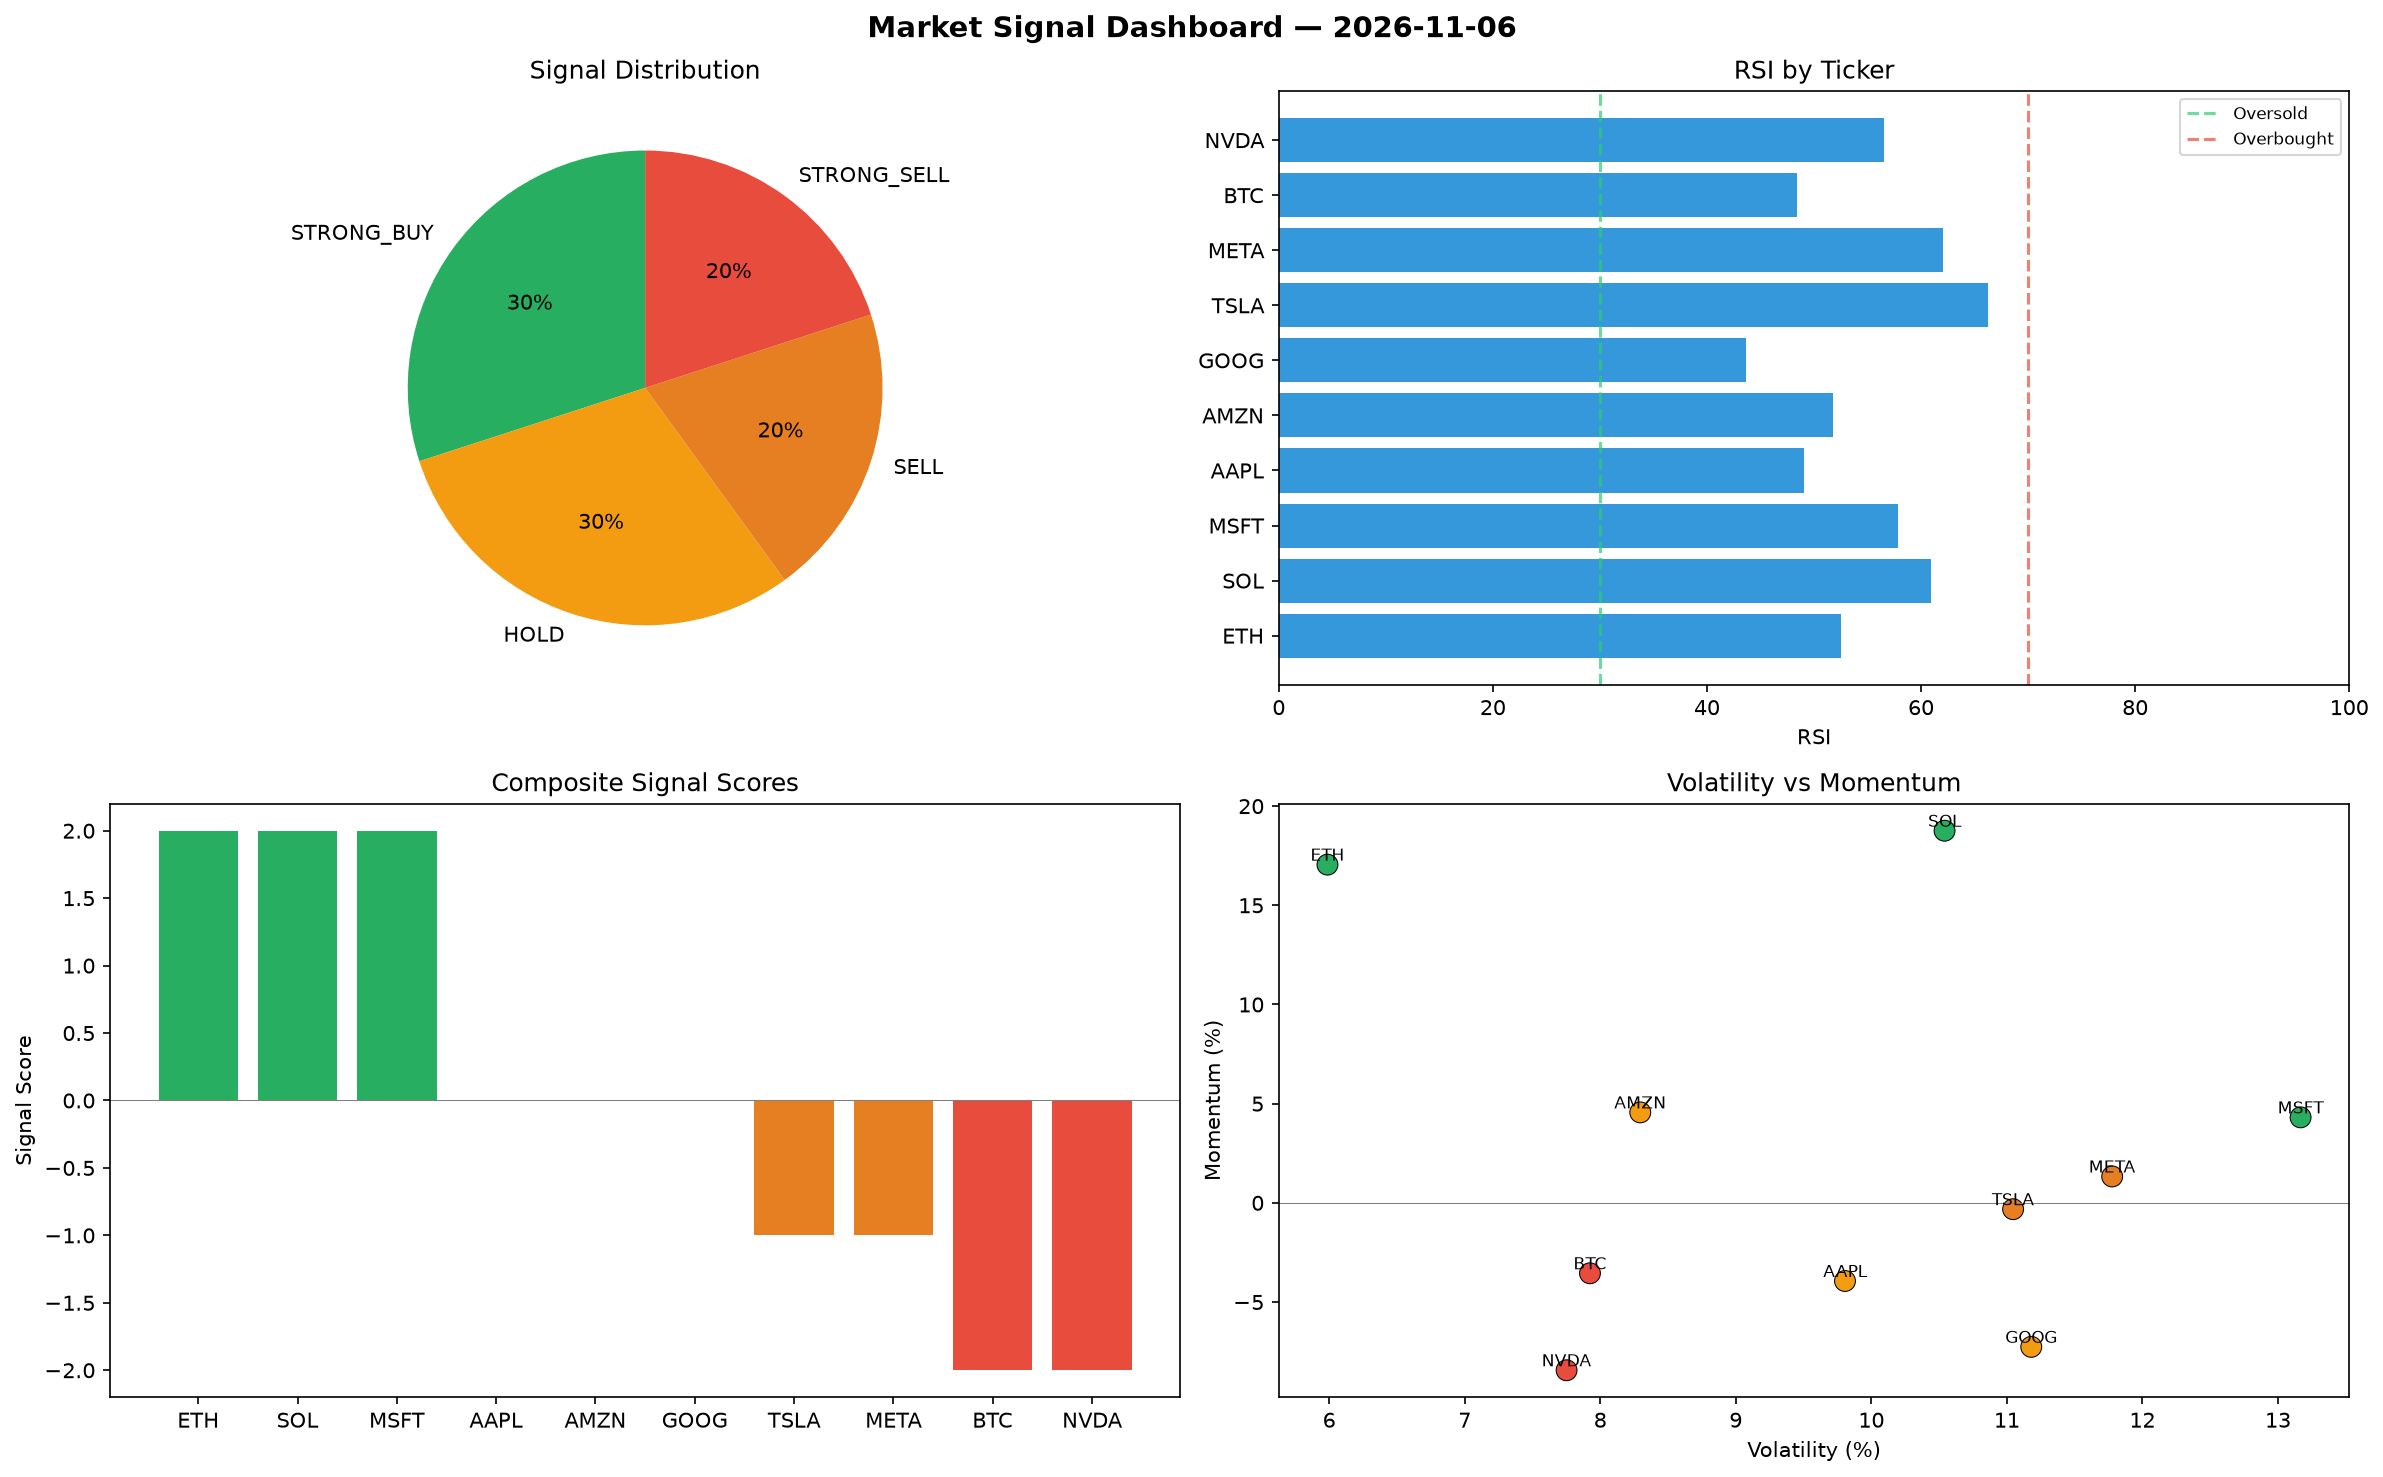
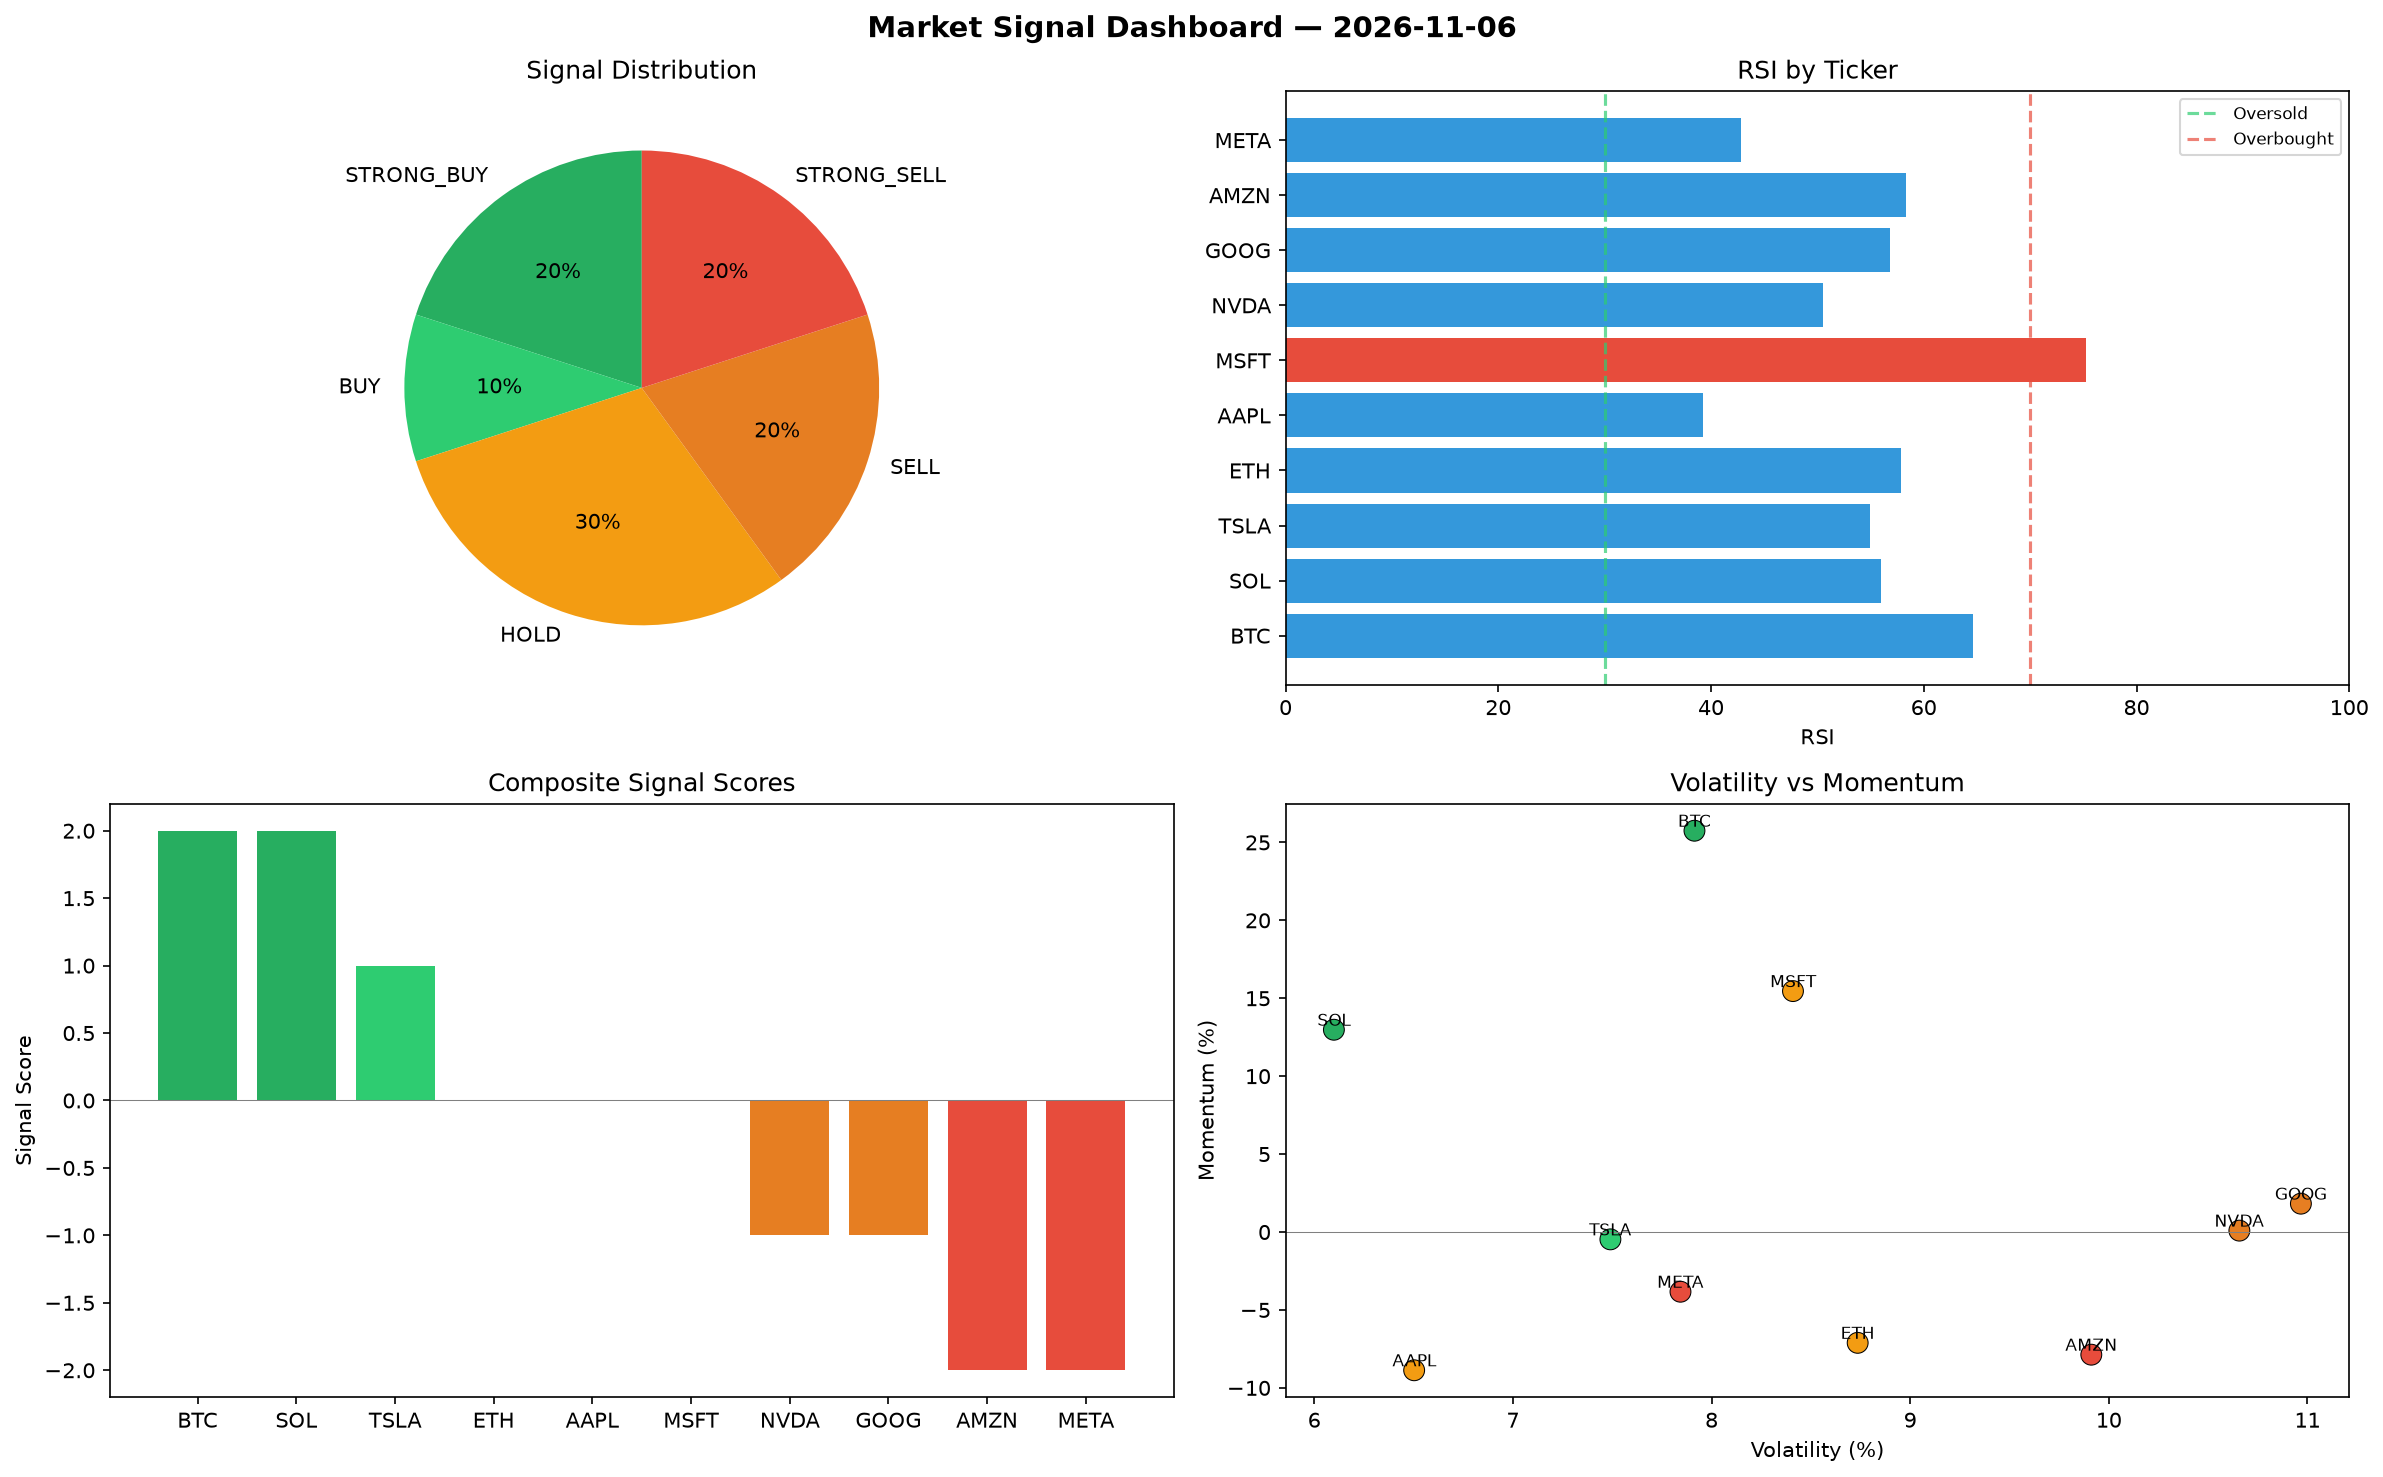
automated-bots: market signals 2026-11-06T09:37

diff --git a/logs/2026-11-06.md b/logs/2026-11-06.md
@@ -1,6 +1,6 @@
 # Market Signal Report — 2026-11-06
 
-**Run ID:** `4459bf4a83` | **Buy:** 3 | **Sell:** 4 | **Hold:** 3
+**Run ID:** `c3e97f5a51` | **Buy:** 3 | **Sell:** 4 | **Hold:** 3
 
 ![Dashboard](2026-11-06_dashboard.png)
 
@@ -8,28 +8,28 @@
 
 | Ticker | Price | Signal | Score | RSI | Momentum | Confidence |
 |--------|-------|--------|-------|-----|----------|------------|
-| ETH | $804.11 | **STRONG_BUY** | 2 | 52.52 | 0.1705 | 0.5 |
-| SOL | $3083.83 | **STRONG_BUY** | 2 | 60.92 | 0.1876 | 0.5 |
-| MSFT | $4808.72 | **STRONG_BUY** | 2 | 57.83 | 0.0431 | 0.5 |
-| AAPL | $580.47 | **HOLD** | 0 | 49.1 | -0.0394 | 0.0 |
-| AMZN | $1782.88 | **HOLD** | 0 | 51.78 | 0.0456 | 0.0 |
-| GOOG | $2497.36 | **HOLD** | 0 | 43.69 | -0.0726 | 0.0 |
-| TSLA | $4990.35 | **SELL** | -1 | 66.29 | -0.0032 | 0.25 |
-| META | $267.32 | **SELL** | -1 | 62.03 | 0.0133 | 0.25 |
-| BTC | $3185.32 | **STRONG_SELL** | -2 | 48.37 | -0.0355 | 0.5 |
-| NVDA | $2539.84 | **STRONG_SELL** | -2 | 56.57 | -0.0844 | 0.5 |
+| BTC | $4660.68 | **STRONG_BUY** | 2 | 64.66 | 0.2575 | 0.5 |
+| SOL | $5266.21 | **STRONG_BUY** | 2 | 56.0 | 0.1298 | 0.5 |
+| TSLA | $3998.04 | **BUY** | 1 | 54.91 | -0.0047 | 0.25 |
+| ETH | $4217.93 | **HOLD** | 0 | 57.9 | -0.0711 | 0.0 |
+| AAPL | $1076.69 | **HOLD** | 0 | 39.25 | -0.0887 | 0.0 |
+| MSFT | $4814.15 | **HOLD** | 0 | 75.26 | 0.1546 | 0.0 |
+| NVDA | $93.36 | **SELL** | -1 | 50.55 | 0.0009 | 0.25 |
+| GOOG | $2905.24 | **SELL** | -1 | 56.82 | 0.0182 | 0.25 |
+| AMZN | $2031.03 | **STRONG_SELL** | -2 | 58.34 | -0.0787 | 0.5 |
+| META | $3269.82 | **STRONG_SELL** | -2 | 42.85 | -0.0383 | 0.5 |
 
 ## Delta vs Yesterday
 
 | Ticker | Today | Yesterday | Price Change | Signal Changed |
 |--------|-------|-----------|-------------|----------------|
-| ETH | STRONG_BUY | STRONG_BUY | 📉 -44.39% | — |
-| SOL | STRONG_BUY | HOLD | 📈 159.9% | ⚠ YES |
-| MSFT | STRONG_BUY | BUY | 📈 961.25% | ⚠ YES |
-| AAPL | HOLD | STRONG_SELL | 📉 -59.17% | ⚠ YES |
-| AMZN | HOLD | SELL | 📈 62.77% | ⚠ YES |
-| GOOG | HOLD | STRONG_SELL | 📉 -36.65% | ⚠ YES |
-| TSLA | SELL | STRONG_BUY | 📈 74.95% | ⚠ YES |
-| META | SELL | STRONG_SELL | 📉 -86.87% | ⚠ YES |
-| BTC | STRONG_SELL | HOLD | 📉 -24.3% | ⚠ YES |
-| NVDA | STRONG_SELL | STRONG_SELL | 📈 2.36% | — |
+| BTC | STRONG_BUY | HOLD | 📈 10.76% | ⚠ YES |
+| SOL | STRONG_BUY | HOLD | 📈 343.82% | ⚠ YES |
+| TSLA | BUY | STRONG_BUY | 📈 40.16% | ⚠ YES |
+| ETH | HOLD | STRONG_BUY | 📈 191.68% | ⚠ YES |
+| AAPL | HOLD | STRONG_SELL | 📉 -24.27% | ⚠ YES |
+| MSFT | HOLD | BUY | 📈 962.44% | ⚠ YES |
+| NVDA | SELL | STRONG_SELL | 📉 -96.24% | ⚠ YES |
+| GOOG | SELL | STRONG_SELL | 📉 -26.31% | ⚠ YES |
+| AMZN | STRONG_SELL | SELL | 📈 85.42% | ⚠ YES |
+| META | STRONG_SELL | STRONG_SELL | 📈 60.63% | — |
